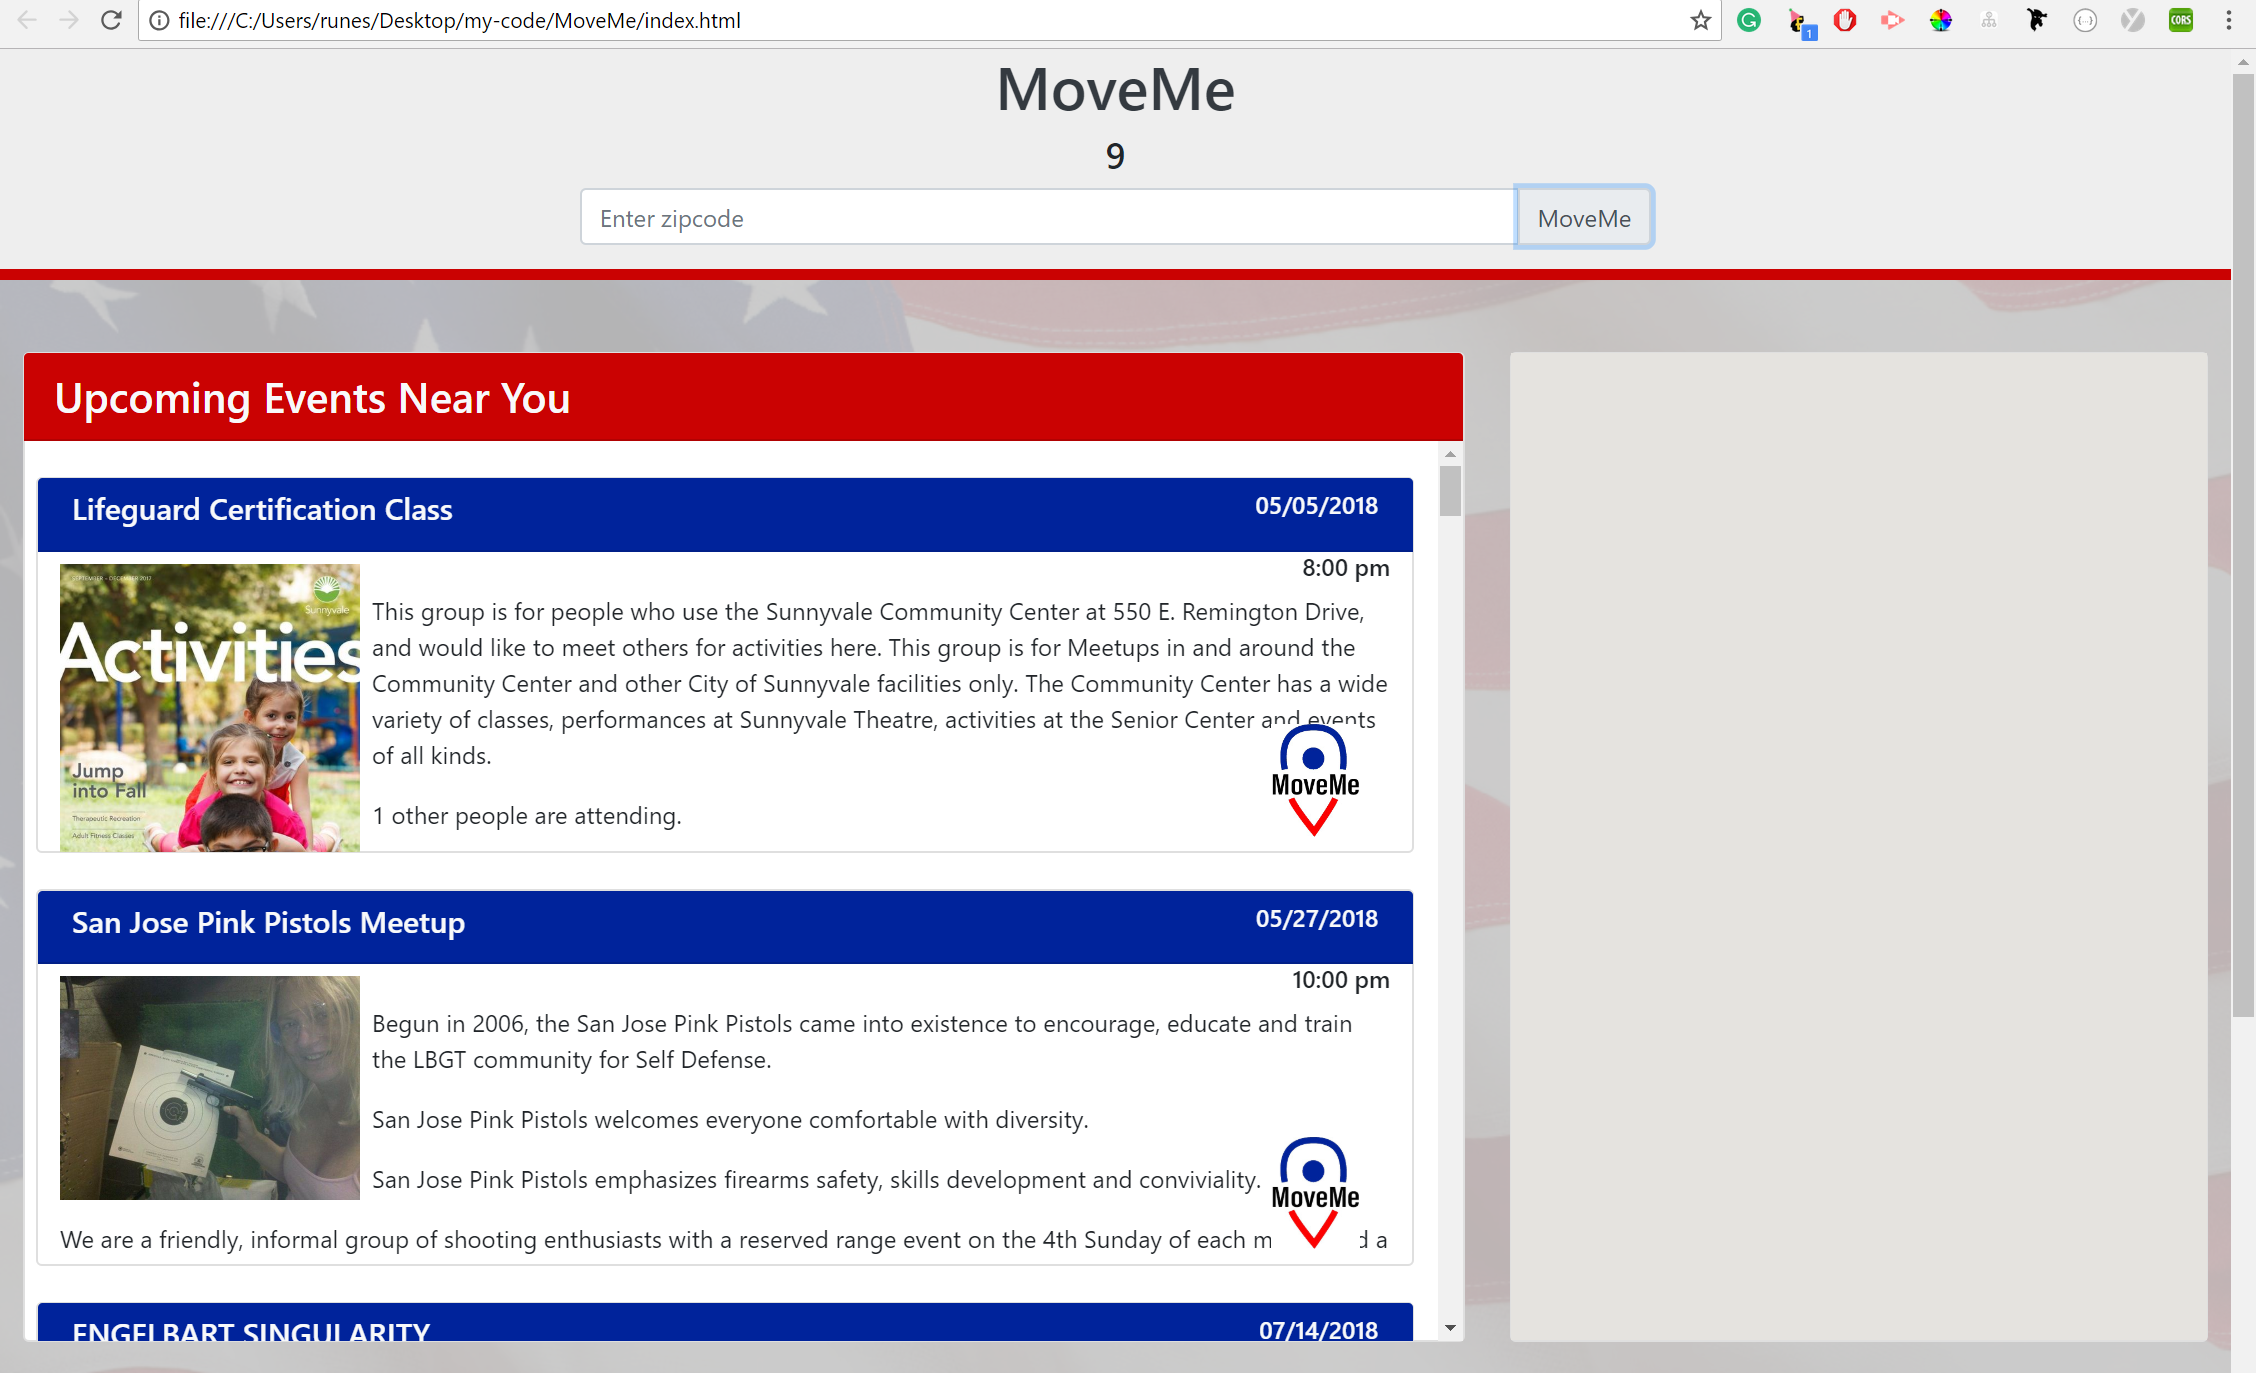
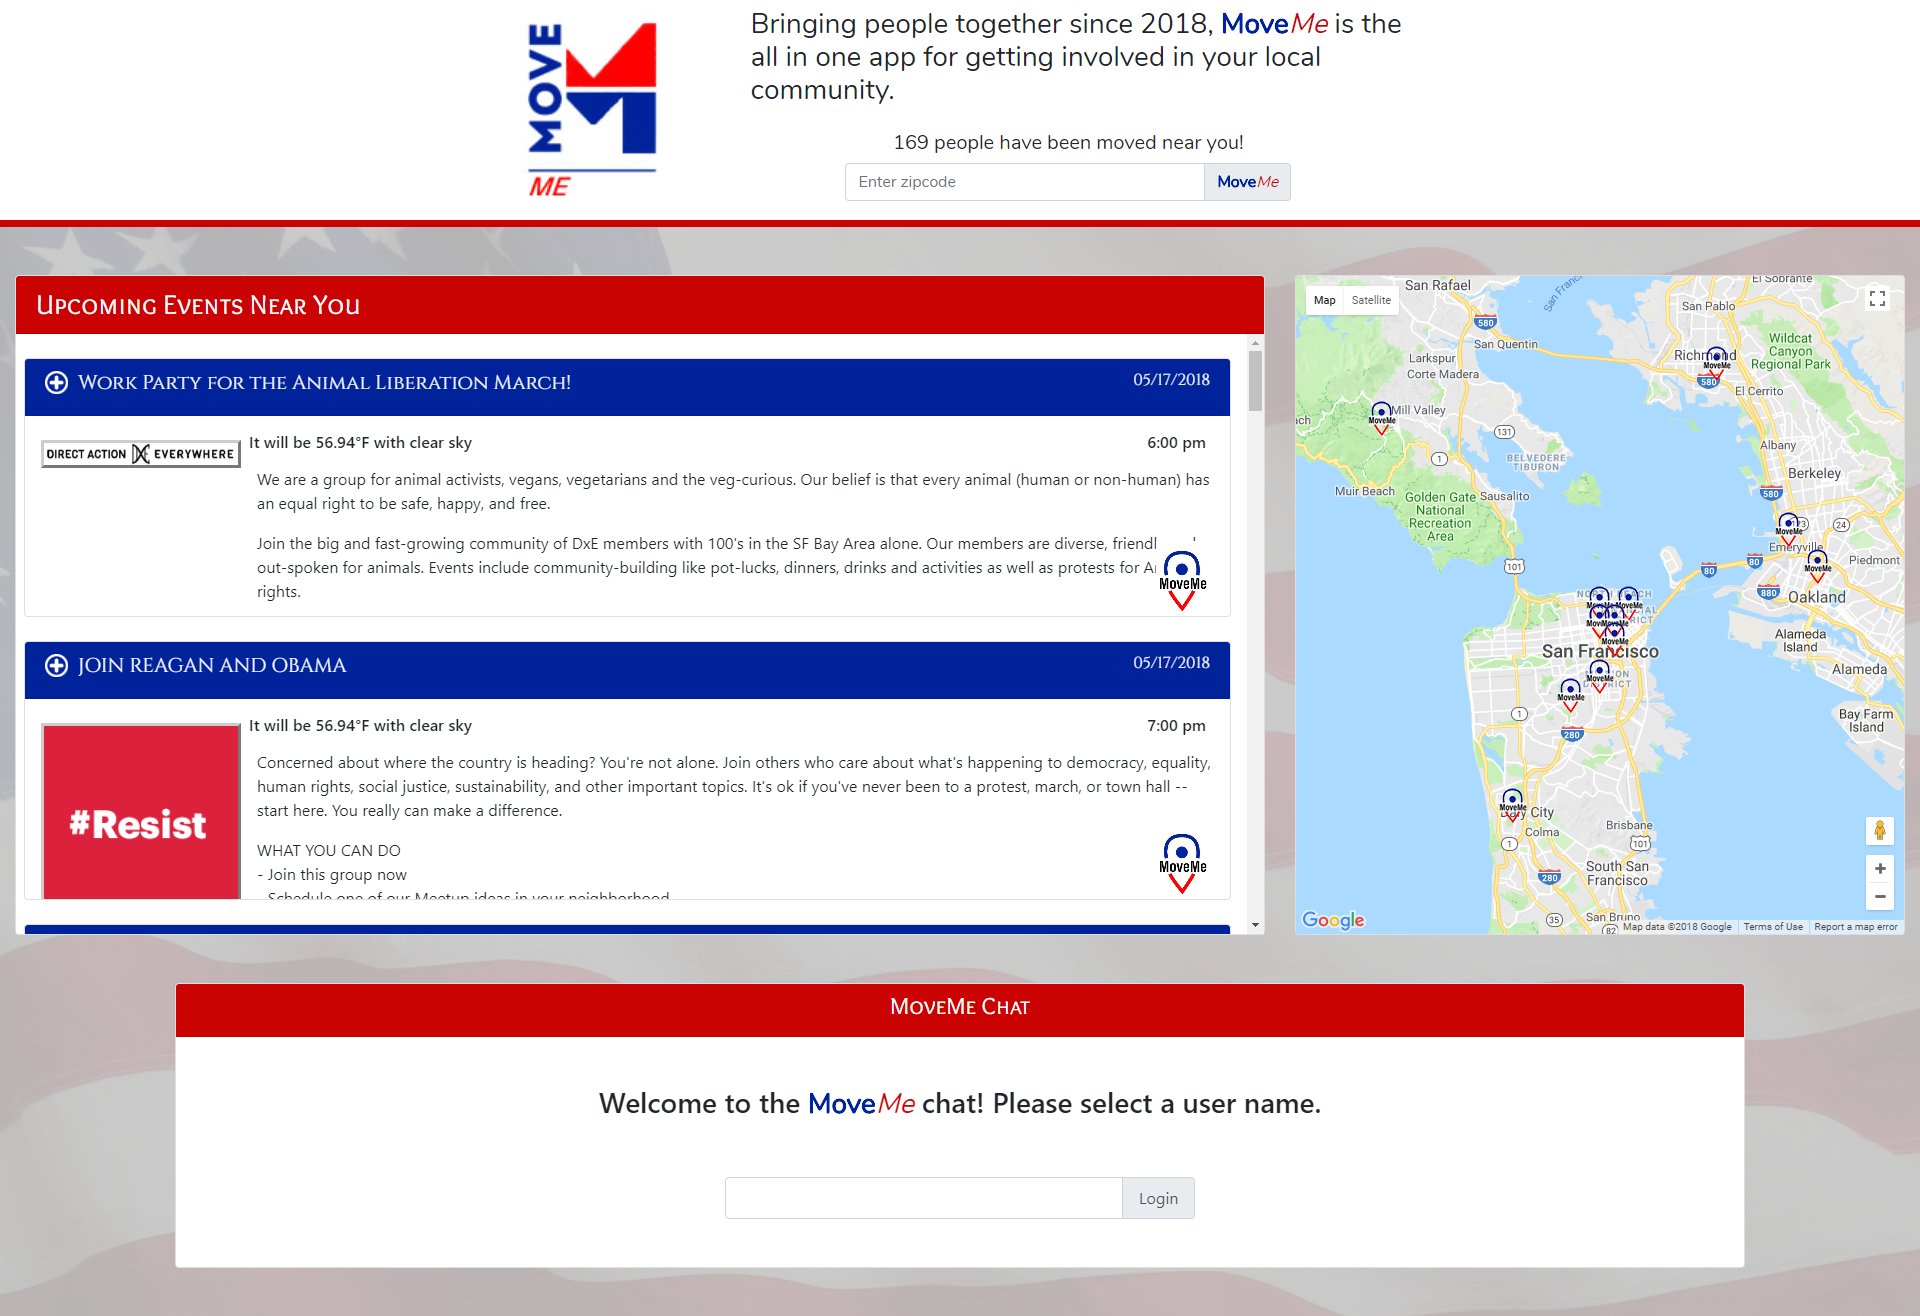
add meetup API to readme

diff --git a/README.md b/README.md
@@ -1,16 +1,21 @@
 # MoveMe
-MoveMe was created to provide people easy access to find and join political or community events. Users are prompted to enter his/her zipcode and MoveMe will generate upcoming events from the meetup.com and the location from Google Maps. We have also created a chat feature for MoveMe users to connect with other users online.
+Bringing people together since 2018, MoveMe is the all in one app for getting involved in your local community.
+
+MoveMe was created to provide people easy access to find and join political or community events. Users are prompted to enter his/her zipcode and MoveMe will generate upcoming events from the Meetup.com and the location from Google Maps. We have also created a chat feature for MoveMe users to connect with other users online.
 
 ## Getting Started
 
 Open up the [project link](https://sun1devil.github.io/MoveMe/) and you should be able to see the example webpage shown below:
 
-![Homepage](assets/images/Homepage.PNG) "MoveMe Homepage")
+![Homepage](assets/images/home-page.png)
+
+Enter your zip code and join the MoveMe nation! See what people just like you are getting involved in in your local community. With every step forward, we stem the rising tide of apathy and take ownership of the future of our nation!
+
 ![Upcoming Events](assets/images/upcoming-events.PNG "MoveMe Upcoming Events Results")
 
 ### Prerequisites
 
-You need to have a modern browser able to handle HTML5, Javascript, and CSS. We used Google Chrome.
+You need to have a modern browser able to handle HTML5, Javascript, and CSS (such as the Google Chrome browser).
 
 ### Installing
 
@@ -28,6 +33,8 @@ No installation needed! Just open the page in your preferred browser.
 
 * [jQuery v3.3.1](http://jquery.com/) - Java library for DOM and CSS manipulation
 
+* [Moment.js 2.22.1](https://momentjs.com/) - Java Library for Time calculations
+
 * [Google Firebase 4.13.0](https://firebase.google.com/) - Online database
 
 * [Google Fonts](https://fonts.google.com/) - Font repository
@@ -36,7 +43,14 @@ No installation needed! Just open the page in your preferred browser.
 
 * [Meetup API](https://www.meetup.com/meetup_api/) - Meetup
 
-* [Weather API](https://darksky.net/dev) - Weather API
+* [Weather API](https://openweathermap.org/api) - Open Weather Map
+
+## APIs
+
+### Meetup API
+![Meetup API](assets/images/MeetUp-API.gif)
+We used the Metup.com API to pull events from the movements and politics category. Our queryURL shows that we filter based on the zipcode users entered, a radius of 10 miles, category and upcoming events. After executing that URL, we get a JSON file which we had to parse for relevant data. Within our ajax function we included a for loop that iterates through each event in the JSON file to retrieve the details for relevant events. With the details from the JSON file, we created an array called meetupList so that we can store each event and the related details as objects within the array for easy reference by other parts of the code.
+
 
 ## Authors
 
